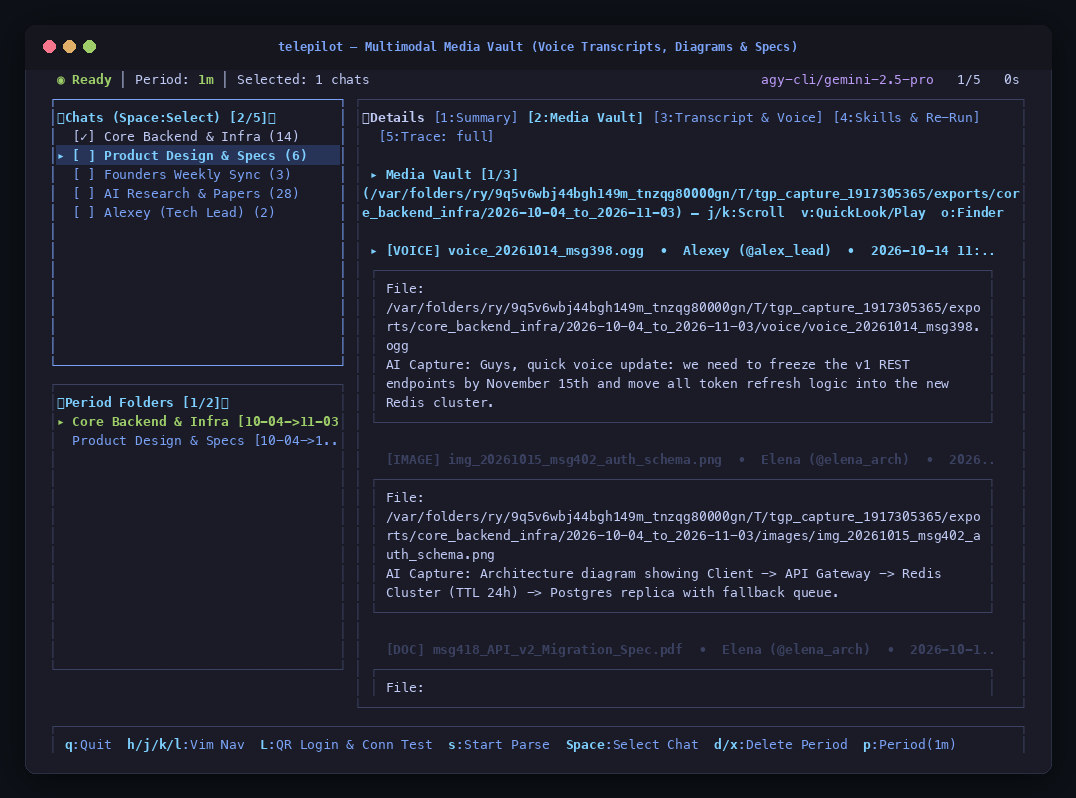
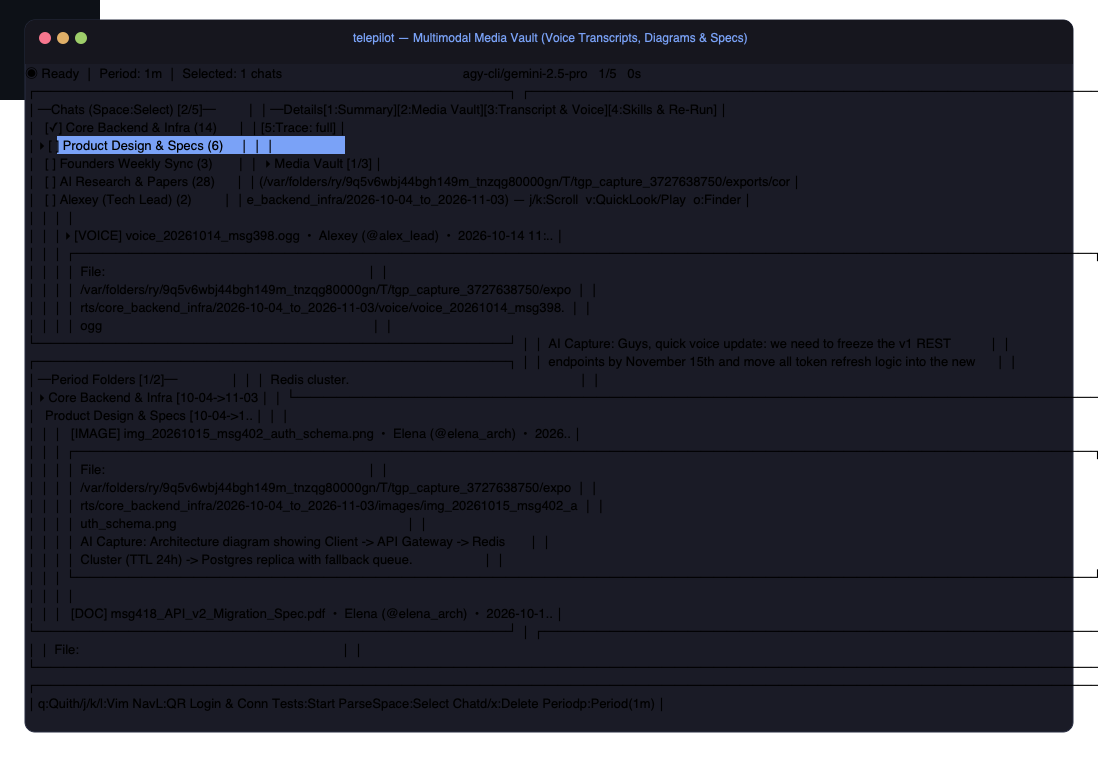
refactor(screens): remove Python dependency and use 100% pure Go screenshot generator

diff --git a/cmd/screens/main.go b/cmd/screens/main.go
@@ -1,11 +1,12 @@
 package main
 
 import (
-	"encoding/json"
 	"fmt"
+	"html"
 	"os"
 	"os/exec"
 	"path/filepath"
+	"strings"
 
 	tea "github.com/charmbracelet/bubbletea"
 	"github.com/charmbracelet/lipgloss"
@@ -21,63 +22,174 @@ import (
 	"telepilot/internal/tui"
 )
 
-type CellJSON struct {
-	Char string `json:"char"`
-	Fg   string `json:"fg"`
-	Bg   string `json:"bg"`
-	Bold bool   `json:"bold"`
-}
-
 func hexColor(c ansi.Color, defaultHex string) string {
 	if c == nil {
 		return defaultHex
 	}
 	r, g, b, _ := c.RGBA()
-	return fmt.Sprintf("#%02x%02x%02x", r>>8, g>>8, b>>8)
+	r8, g8, b8 := r>>8, g>>8, b>>8
+	// Boost very dark muted text for high contrast and readability on dark background
+	if r8 < 95 && g8 < 105 && b8 < 145 && r8 > 30 {
+		return "#7aa2f7" // Tokyo Night readable accent blue
+	}
+	return fmt.Sprintf("#%02x%02x%02x", r8, g8, b8)
 }
 
-func extractGrid(viewStr string, widthCols, heightRows int) [][]CellJSON {
+func RenderTerminalSVG(viewStr string, widthCols, heightRows int, title string) string {
 	buf := cellbuf.NewBuffer(widthCols, heightRows)
 	cellbuf.SetContent(buf, viewStr)
 
-	grid := make([][]CellJSON, heightRows)
+	charW := 8.0
+	charH := 18.0
+	padX := 24.0
+	padTop := 44.0 // title bar height
+	padBottom := 20.0
+
+	termW := float64(widthCols) * charW
+	termH := float64(heightRows) * charH
+	windowW := termW + padX*2
+	windowH := termH + padTop + padBottom
+
+	viewBoxW := windowW + 50
+	viewBoxH := windowH + 50
+	originX := 25.0
+	originY := 20.0
+
+	var sb strings.Builder
+	sb.WriteString(fmt.Sprintf(`<svg xmlns="http://www.w3.org/2000/svg" viewBox="0 0 %.1f %.1f" width="%.1f" height="%.1f">
+  <defs>
+    <filter id="shadow" x="-5%%" y="-5%%" width="110%%" height="115%%">
+      <feDropShadow dx="0" dy="18" stdDeviation="22" flood-color="#000000" flood-opacity="0.6"/>
+    </filter>
+  </defs>
+  <style>
+    .mono { font-family: ui-monospace, 'SF Mono', Menlo, Monaco, Consolas, monospace; font-size: 13px; font-variant-ligatures: none; }
+  </style>
+  <rect width="100%%" height="100%%" fill="#0d1117"/>
+  <g transform="translate(%.1f, %.1f)" filter="url(#shadow)">
+    <!-- Window Body -->
+    <rect width="%.1f" height="%.1f" rx="10" ry="10" fill="#1a1b26" stroke="#292e42" stroke-width="1"/>
+    <!-- Title Bar -->
+    <path d="M 0,10 A 10,10 0 0 1 10,0 L %.1f,0 A 10,10 0 0 1 %.1f,10 L %.1f,%.1f L 0,%.1f Z" fill="#16161e"/>
+    <!-- Window Controls -->
+    <circle cx="20" cy="18" r="6" fill="#f7768e"/>
+    <circle cx="38" cy="18" r="6" fill="#e0af68"/>
+    <circle cx="56" cy="18" r="6" fill="#9ece6a"/>
+    <!-- Window Title -->
+    <text x="%.1f" y="22" font-family="-apple-system, BlinkMacSystemFont, 'Segoe UI', Roboto, Helvetica, Arial, sans-serif" font-size="12" fill="#7aa2f7" font-weight="600" text-anchor="middle">%s</text>
+`, viewBoxW, viewBoxH, viewBoxW, viewBoxH, originX, originY, windowW, windowH, windowW-10, windowW, windowW, padTop, padTop, windowW/2, html.EscapeString(title)))
+
+	// 1. Render background rects
 	for y := 0; y < heightRows; y++ {
 		line := buf.Line(y)
-		grid[y] = make([]CellJSON, widthCols)
-		for x := 0; x < widthCols; x++ {
-			charStr := " "
-			fg := "#c0caf5"
-			bg := ""
-			bold := false
+		var bgStart int = -1
+		var curBg string = ""
 
-			if x < len(line) && line[x] != nil {
-				c := line[x]
+		flushBg := func(endX int) {
+			if bgStart >= 0 && curBg != "" && curBg != "#1a1b26" && curBg != "#16161e" {
+				rw := float64(endX-bgStart) * charW
+				rx := padX + float64(bgStart)*charW
+				ry := padTop + float64(y)*charH
+				sb.WriteString(fmt.Sprintf(`    <rect x="%.1f" y="%.1f" width="%.1f" height="%.1f" fill="%s"/>`+"\n", rx, ry, rw, charH, curBg))
+			}
+			bgStart = -1
+			curBg = ""
+		}
+
+		for x := 0; x < widthCols && x < len(line); x++ {
+			c := line[x]
+			if c == nil || c.Style.Bg == nil {
+				flushBg(x)
+				continue
+			}
+			hex := hexColor(c.Style.Bg, "")
+			if hex == curBg {
+				continue
+			}
+			flushBg(x)
+			if hex != "" {
+				bgStart = x
+				curBg = hex
+			}
+		}
+		flushBg(len(line))
+	}
+
+	// 2. Render text spans line by line with explicit column alignment and lengthAdjust
+	for y := 0; y < heightRows; y++ {
+		line := buf.Line(y)
+		textY := padTop + float64(y)*charH + 13.5 // baseline
+		sb.WriteString(fmt.Sprintf(`    <text class="mono" y="%.1f" xml:space="preserve">`, textY))
+
+		type runSpan struct {
+			startCol int
+			numCols  int
+			text     string
+			fg       string
+			bold     bool
+		}
+		var runs []runSpan
+		var curRun runSpan
+
+		for x := 0; x < widthCols && x < len(line); x++ {
+			c := line[x]
+			r := ' '
+			fg := "#c0caf5" // default clear bright Tokyo Night text
+			bold := false
+			w := 1
+			if c != nil {
 				if c.Rune != 0 {
-					charStr = string(c.Rune)
+					r = c.Rune
+				}
+				if c.Width > 0 {
+					w = c.Width
 				}
 				if c.Style.Fg != nil {
 					fg = hexColor(c.Style.Fg, "#c0caf5")
-				}
-				if c.Style.Bg != nil {
-					bg = hexColor(c.Style.Bg, "")
 				}
 				if c.Style.Attrs&cellbuf.BoldAttr != 0 {
 					bold = true
 				}
 			}
-			grid[y][x] = CellJSON{
-				Char: charStr,
-				Fg:   fg,
-				Bg:   bg,
-				Bold: bold,
+
+			if curRun.text == "" {
+				curRun = runSpan{startCol: x, numCols: w, text: string(r), fg: fg, bold: bold}
+			} else if curRun.fg == fg && curRun.bold == bold && (curRun.startCol+curRun.numCols == x) {
+				curRun.text += string(r)
+				curRun.numCols += w
+			} else {
+				runs = append(runs, curRun)
+				curRun = runSpan{startCol: x, numCols: w, text: string(r), fg: fg, bold: bold}
 			}
 		}
+		if curRun.text != "" {
+			runs = append(runs, curRun)
+		}
+
+		for _, r := range runs {
+			if strings.TrimSpace(r.text) == "" {
+				continue // spaces do not need glyphs; background rects handle highlights
+			}
+			boldAttr := ""
+			if r.bold {
+				boldAttr = ` font-weight="bold"`
+			}
+			xCoord := padX + float64(r.startCol)*charW
+			spanW := float64(r.numCols) * charW
+			sb.WriteString(fmt.Sprintf(`<tspan x="%.1f" textLength="%.1f" lengthAdjust="spacing" fill="%s"%s>%s</tspan>`,
+				xCoord, spanW, r.fg, boldAttr, html.EscapeString(r.text)))
+		}
+		sb.WriteString("</text>\n")
 	}
-	return grid
+
+	sb.WriteString("  </g>\n</svg>\n")
+	return sb.String()
 }
 
 func main() {
+	// Force TrueColor profile so Lipgloss preserves all Tokyo-Night colors in non-tty scripts
 	lipgloss.SetColorProfile(termenv.TrueColor)
+
 	tmpDir, err := os.MkdirTemp("", "tgp_capture_*")
 	if err != nil {
 		panic(err)
@@ -205,33 +317,26 @@ func main() {
 		},
 	}
 
-	pyScript := filepath.Join(cwd, "cmd", "screens", "render.py")
-
 	for _, s := range screens {
 		m := s.setup()
-		grid := extractGrid(m.View(), cols, rows)
-		gridJSON, err := json.Marshal(grid)
-		if err != nil {
-			panic(err)
-		}
+		svg := RenderTerminalSVG(m.View(), cols, rows, s.title)
+		pngPath := filepath.Join(assetsDir, s.name+".png")
 
-		outPNG := filepath.Join(assetsDir, s.name+".png")
-		cmd := exec.Command(".venv/bin/python3", pyScript, s.title, outPNG)
-		stdin, _ := cmd.StdinPipe()
-		cmd.Stdout = os.Stdout
-		cmd.Stderr = os.Stderr
-
-		if err := cmd.Start(); err != nil {
-			fmt.Printf("Error starting python renderer for %s: %v\n", s.name, err)
+		// Render PNG directly using native macOS /usr/bin/sips
+		tmpSVG := filepath.Join(tmpDir, s.name+".svg")
+		if err := os.WriteFile(tmpSVG, []byte(svg), 0o644); err != nil {
+			fmt.Printf("Failed to write SVG for %s: %v\n", s.name, err)
 			continue
 		}
-		_, _ = stdin.Write(gridJSON)
-		_ = stdin.Close()
-		if err := cmd.Wait(); err != nil {
-			fmt.Printf("Error running python renderer for %s: %v\n", s.name, err)
+
+		cmd := exec.Command("/usr/bin/sips", "-s", "format", "png", tmpSVG, "--out", pngPath)
+		if out, err := cmd.CombinedOutput(); err != nil {
+			fmt.Printf("Error rendering %s.png via sips: %v (output: %s)\n", s.name, err, string(out))
 			continue
 		}
-		fmt.Printf("✓ Generated pixel-perfect %s.png\n", s.name)
+
+		fmt.Printf("✓ Rendered %s.png\n", s.name)
 	}
-	fmt.Println("\nAll PNG screenshots rendered successfully!")
+
+	fmt.Println("\nAll PNG screenshots generated successfully in assets/!")
 }
